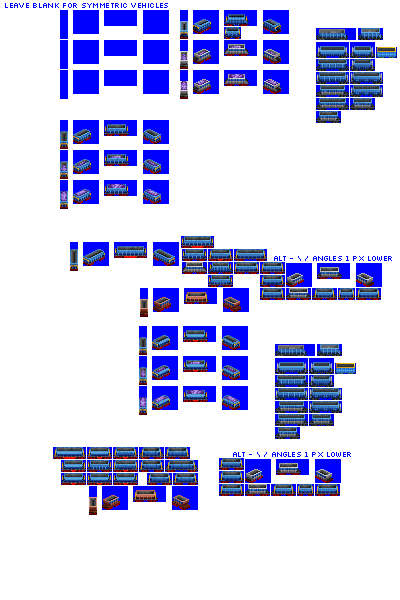
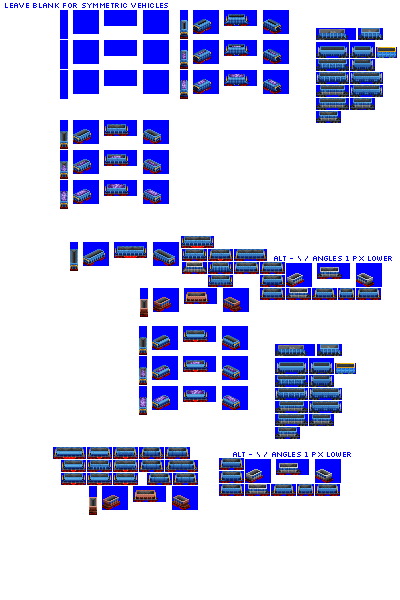
Change: sprites complete for aggregate hopper cars type 2

Changed region(s): [[0.45, 0.03, 0.63, 0.18], [0.66, 0.03, 0.72, 0.15], [0.57, 0.12, 0.63, 0.15]]

diff --git a/src/vehicles/pony/aggregate_hopper_cars_type_2_pony.py b/src/vehicles/pony/aggregate_hopper_cars_type_2_pony.py
@@ -125,7 +125,7 @@ def main(roster_id, **kwargs):
         base_numeric_id=20150,
         gen=5,
         subtype="B",
-        sprites_complete=False,
+        sprites_complete=True,
     )
 
     consist.add_unit(type=FreightCar, chassis="4_axle_filled_greebled_alt_24px")
@@ -136,7 +136,7 @@ def main(roster_id, **kwargs):
         base_numeric_id=20170,
         gen=5,
         subtype="C",
-        sprites_complete=False,
+        sprites_complete=True,
     )
 
     consist.add_unit(type=FreightCar, chassis="4_axle_filled_greebled_alt_32px")
